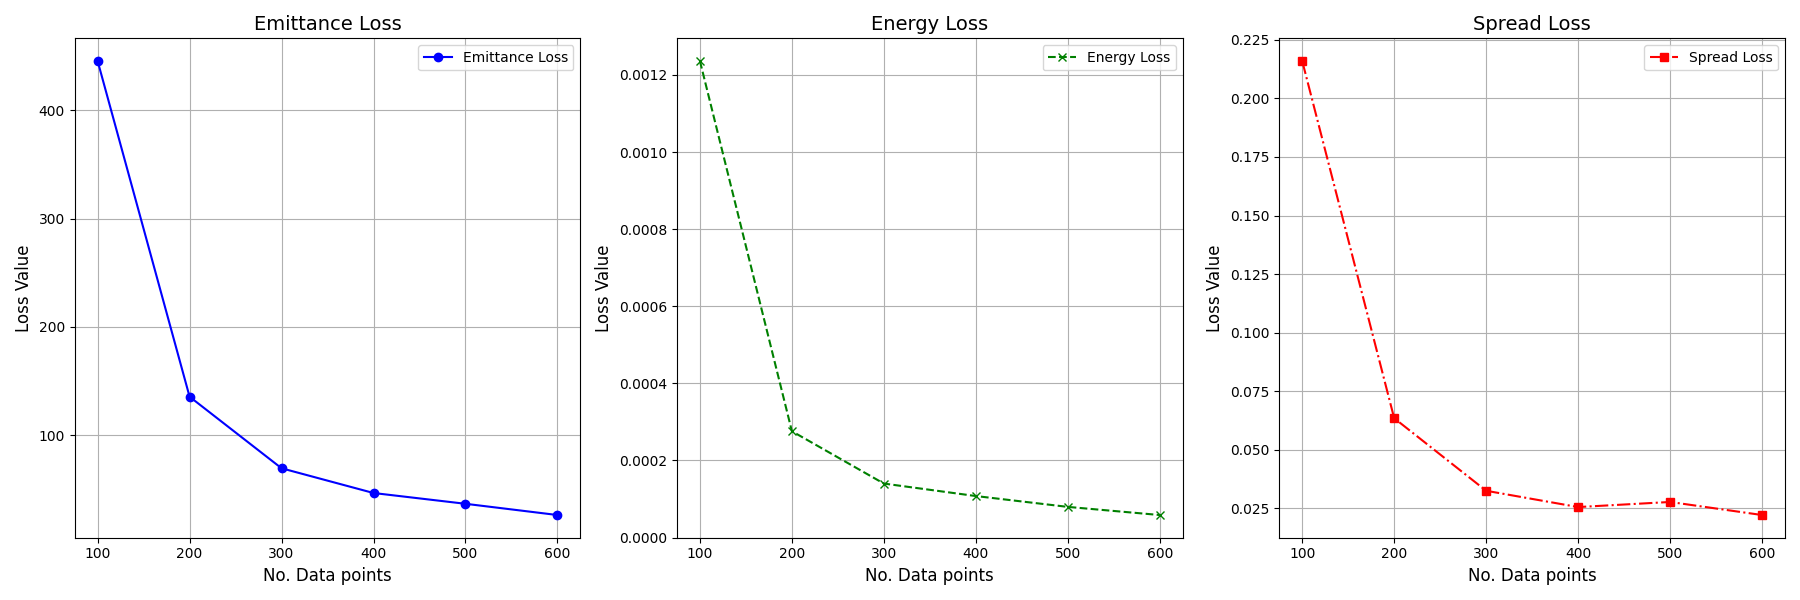
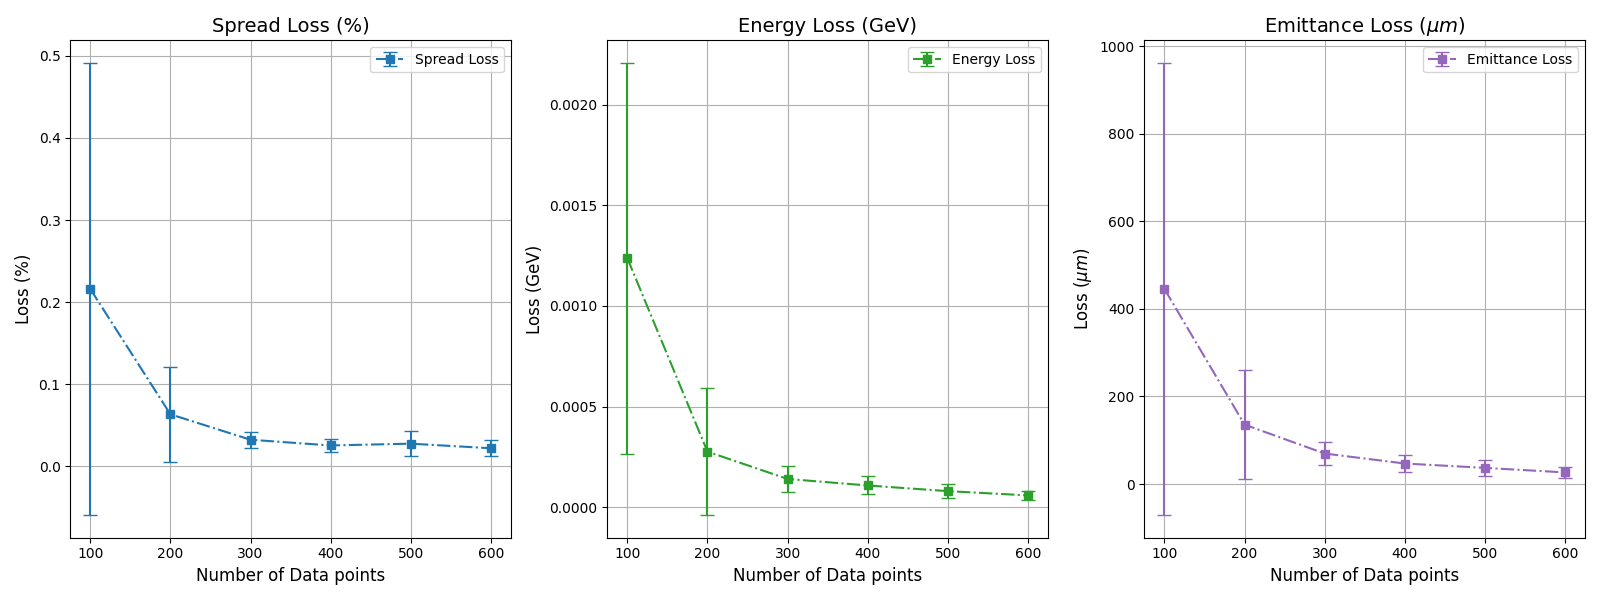
new loss plots

diff --git a/Machine Learning/loss_data_analysis.py b/Machine Learning/loss_data_analysis.py
@@ -8,7 +8,8 @@ data = pd.read_csv(r'Machine Learning\loss_data.csv')
 
 point_array=np.array([100,200,300,400,500,600])
 # Group by 'No. Data Points' and calculate the mean of the losses
-average_losses = data.groupby('No. Data Points').mean()
+average_losses = data.groupby('No. Data Points').agg(['mean', 'var'])
+average_losses.reset_index(inplace=True)
 average_losses.reset_index(inplace=True)
 #average_losses = average_losses[(average_losses['No. Data Points'] != 575) & (average_losses['No. Data Points']>=100)]
 average_losses=average_losses[average_losses['No. Data Points'].isin(point_array)]
@@ -17,28 +18,57 @@ average_losses=average_losses[average_losses['No. Data Points'].isin(point_array
 print(average_losses)
 
 # Create a figure with 3 subplots (1 row, 3 columns)
-fig, axes = plt.subplots(1, 3, figsize=(18, 6))  # 1 row, 3 columns
+fig, axes = plt.subplots(1, 3, figsize=(16, 6))  # 1 row, 3 columns
 # Plotting each loss array in its respective subplot
-axes[0].plot(average_losses['No. Data Points'], average_losses['Emittance Loss'], label='Emittance Loss', color='b', linestyle='-', marker='o')
-axes[0].set_title('Emittance Loss', fontsize=14)
-axes[0].set_xlabel('No. Data points', fontsize=12)
-axes[0].set_ylabel('Loss Value', fontsize=12)
-axes[0].grid(True)
-axes[0].legend()
+#axes[2].plot(average_losses['No. Data Points'], average_losses[("Emittance Loss", "mean")], label='Emittance Loss', color='tab:purple', linestyle='-', marker='o')
+axes[2].errorbar(
+    average_losses['No. Data Points'],  # X values
+    average_losses[("Emittance Loss", "mean")],  # Y values (mean)
+    yerr=np.sqrt(average_losses[("Emittance Loss", "var")]),  # Error bars (std dev)
+    label='Emittance Loss',
+    color='tab:purple',
+    linestyle='-.',
+    marker='s',
+    capsize=5  # Adds caps to the error bars for better visibility
+)
+axes[2].set_title(r'Emittance Loss ($\mu m$)', fontsize=14)
+axes[2].set_xlabel('Number of Data points', fontsize=12)
+axes[2].set_ylabel(r'Loss ($\mu m$)', fontsize=12)
+axes[2].grid(True)
+axes[2].legend()
 
-axes[1].plot(average_losses['No. Data Points'], average_losses['Energy Loss'], label='Energy Loss', color='g', linestyle='--', marker='x')
-axes[1].set_title('Energy Loss', fontsize=14)
-axes[1].set_xlabel('No. Data points', fontsize=12)
-axes[1].set_ylabel('Loss Value', fontsize=12)
+#axes[1].plot(average_losses['No. Data Points'], average_losses[("Energy Loss", "mean")], label='Energy Loss', color='tab:green', linestyle='--', marker='x')
+axes[1].errorbar(
+    average_losses['No. Data Points'],  # X values
+    average_losses[("Energy Loss", "mean")],  # Y values (mean)
+    yerr=np.sqrt(average_losses[("Energy Loss", "var")]),  # Error bars (std dev)
+    label='Energy Loss',
+    color='tab:green',
+    linestyle='-.',
+    marker='s',
+    capsize=5  # Adds caps to the error bars for better visibility
+)
+axes[1].set_title('Energy Loss (GeV)', fontsize=14)
+axes[1].set_xlabel('Number of Data points', fontsize=12)
+axes[1].set_ylabel('Loss (GeV)', fontsize=12)
 axes[1].grid(True)
 axes[1].legend()
 
-axes[2].plot(average_losses['No. Data Points'], average_losses['Spread Loss'], label='Spread Loss', color='r', linestyle='-.', marker='s')
-axes[2].set_title('Spread Loss', fontsize=14)
-axes[2].set_xlabel('No. Data points', fontsize=12)
-axes[2].set_ylabel('Loss Value', fontsize=12)
-axes[2].grid(True)
-axes[2].legend()
+axes[0].errorbar(
+    average_losses['No. Data Points'],  # X values
+    average_losses[("Spread Loss", "mean")],  # Y values (mean)
+    yerr=np.sqrt(average_losses[("Spread Loss", "var")]),  # Error bars (std dev)
+    label='Spread Loss',
+    color='tab:blue',
+    linestyle='-.',
+    marker='s',
+    capsize=5  # Adds caps to the error bars for better visibility
+)
+axes[0].set_title('Spread Loss (%)', fontsize=14)
+axes[0].set_xlabel('Number of Data points', fontsize=12)
+axes[0].set_ylabel('Loss (%)', fontsize=12)
+axes[0].grid(True)
+axes[0].legend()
 
 # Adjust layout to prevent overlapping of titles and labels
 plt.tight_layout()

diff --git a/Machine Learning/neural_network_average_loss.py b/Machine Learning/neural_network_average_loss.py
@@ -695,30 +695,30 @@ gs = fig.add_gridspec(2, 3, height_ratios=[3, 1], hspace=0.4)
 ax1 = fig.add_subplot(gs[0, 0])
 ax1.scatter(beam_spread_actuals, beam_spread_preds, color='tab:blue', alpha=0.6,label="Beam Spread Data")
 ax1.plot(beam_spread_actuals, beam_spread_actuals, color='k', linestyle='-',label="y=x")
-ax1.fill_between(spread_x,spread_y_lower,spread_y_upper , color="red", alpha=0.2, label=(r"RMSE: "+str(np.round(spread_rmse,3))))
+ax1.fill_between(spread_x,spread_y_lower,spread_y_upper , color="red", alpha=0.2, label=(r"RMSE: "+str(np.round(spread_rmse,3))+"%"))
 ax1.set_title('Beam Spread: Simulation vs Predicted')
-ax1.set_xlabel('Simulation Beam Spread')
-ax1.set_ylabel('Predicted Beam Spread')
+ax1.set_xlabel('Simulation Beam Spread  (%)')
+ax1.set_ylabel('Predicted Beam Spread (%)')
 ax1.legend()
 ax1.grid(True, linestyle='--', alpha=0.5)
 
 ax2 = fig.add_subplot(gs[0, 1])
 ax2.scatter(beam_energy_actuals, beam_energy_preds, color='tab:green', alpha=0.6,label="Beam Energy Data")
 ax2.plot(beam_energy_actuals, beam_energy_actuals, color='k', linestyle='-',label="y=x")
-ax2.fill_between(energy_x,energy_y_lower,energy_y_upper , color="red", alpha=0.2, label=(r"RMSE: "+str(np.round(energy_rmse,3))))
+ax2.fill_between(energy_x,energy_y_lower,energy_y_upper , color="red", alpha=0.2, label=(r"RMSE: "+str(np.round(energy_rmse,3))+"GeV"))
 ax2.set_title('Beam Energy: Simulation vs Predicted')
-ax2.set_xlabel('Simulation Beam Energy')
-ax2.set_ylabel('Predicted Beam Energy')
+ax2.set_xlabel('Simulation Beam Energy (GeV)')
+ax2.set_ylabel('Predicted Beam Energy (GeV)')
 ax2.legend()
 ax2.grid(True, linestyle='--', alpha=0.5)
 
 ax3 = fig.add_subplot(gs[0, 2])
 ax3.scatter(emittance_actuals, emittance_preds, color='tab:purple', alpha=0.6,label="Emittance Data")
 ax3.plot(emittance_actuals, emittance_actuals, color='k', linestyle='-',label="y=x")
-ax3.fill_between(em_x,em_y_lower,em_y_upper , color="red", alpha=0.2, label=(r"RMSE: "+str(np.round(em_rmse,3))))
+ax3.fill_between(em_x,em_y_lower,em_y_upper , color="red", alpha=0.2, label=(r"RMSE: "+str(np.round(em_rmse,3))+r" $\mu m$"))
 ax3.set_title('Emittance: Simulation vs Predicted')
-ax3.set_xlabel('Simulation Emittance')
-ax3.set_ylabel('Predicted Emittance')
+ax3.set_xlabel(r'Simulation Emittance ($\mu m$)')
+ax3.set_ylabel(r'Predicted Emittance ($\mu m$)')
 ax3.legend()
 ax3.grid(True, linestyle='--', alpha=0.5)
 
@@ -729,7 +729,7 @@ ax4.axhline(0, color='k', linestyle='-')
 ax4.axhline(-1,color='r',linestyle='--',linewidth=1)
 ax4.axhline(1,color='r',linestyle='--',linewidth=1)
 ax4.set_title('Beam Spread Residuals')
-ax4.set_xlabel('Actual Beam Spread')
+ax4.set_xlabel('Actual Beam Spread (%)')
 ax4.set_ylim(-3,3)
 ax4.set_ylabel('Residual')
 ax4.grid(True, linestyle='--', alpha=0.5)
@@ -740,7 +740,7 @@ ax5.axhline(0, color='k', linestyle='-')
 ax5.axhline(-1,color='r',linestyle='--',linewidth=1)
 ax5.axhline(1,color='r',linestyle='--',linewidth=1)
 ax5.set_title('Beam Energy Residuals')
-ax5.set_xlabel('Actual Beam Energy')
+ax5.set_xlabel('Actual Beam Energy (GeV)')
 ax5.set_ylim(-3,3)
 ax5.set_ylabel('Residual')
 ax5.grid(True, linestyle='--', alpha=0.5)
@@ -751,7 +751,7 @@ ax6.axhline(0, color='k', linestyle='-')
 ax6.axhline(-1,color='r',linestyle='--',linewidth=1)
 ax6.axhline(1,color='r',linestyle='--',linewidth=1)
 ax6.set_title('Emittance Residuals')
-ax6.set_xlabel('Actual Emittance')
+ax6.set_xlabel(r'Actual Emittance ($\mu m$)')
 ax6.set_ylim(-3,3)
 ax6.set_ylabel('Residual')
 ax6.grid(True, linestyle='--', alpha=0.5)
